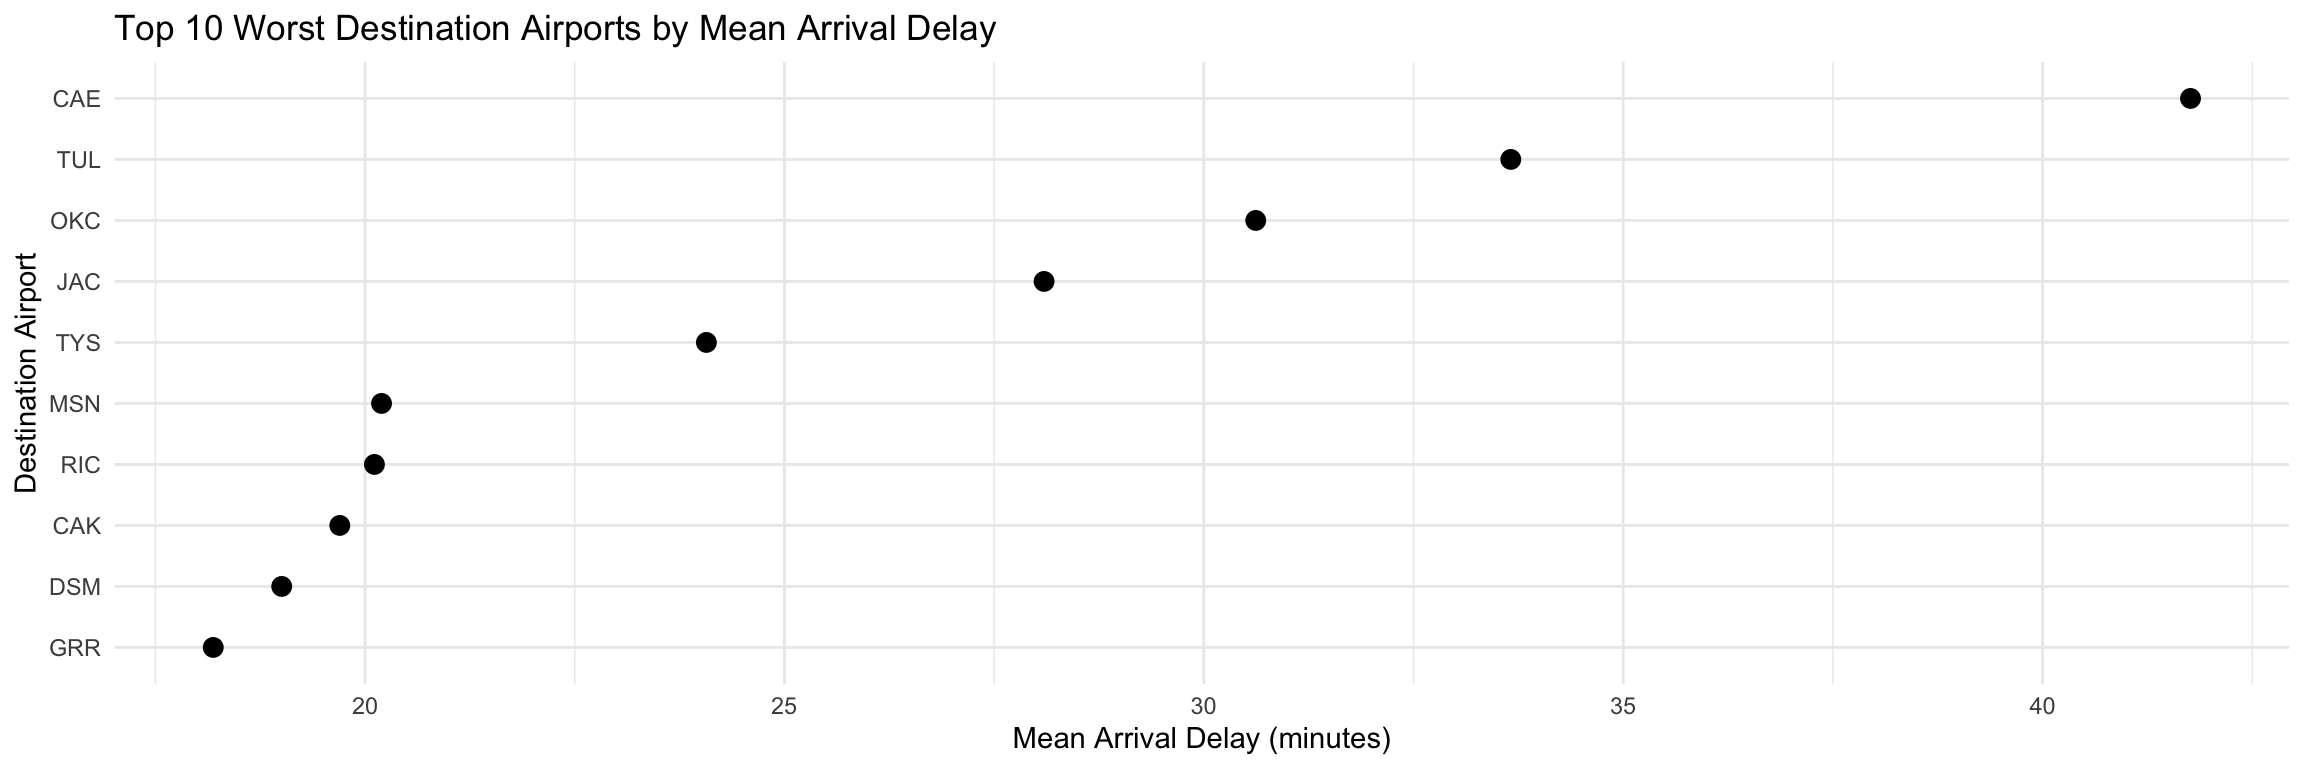
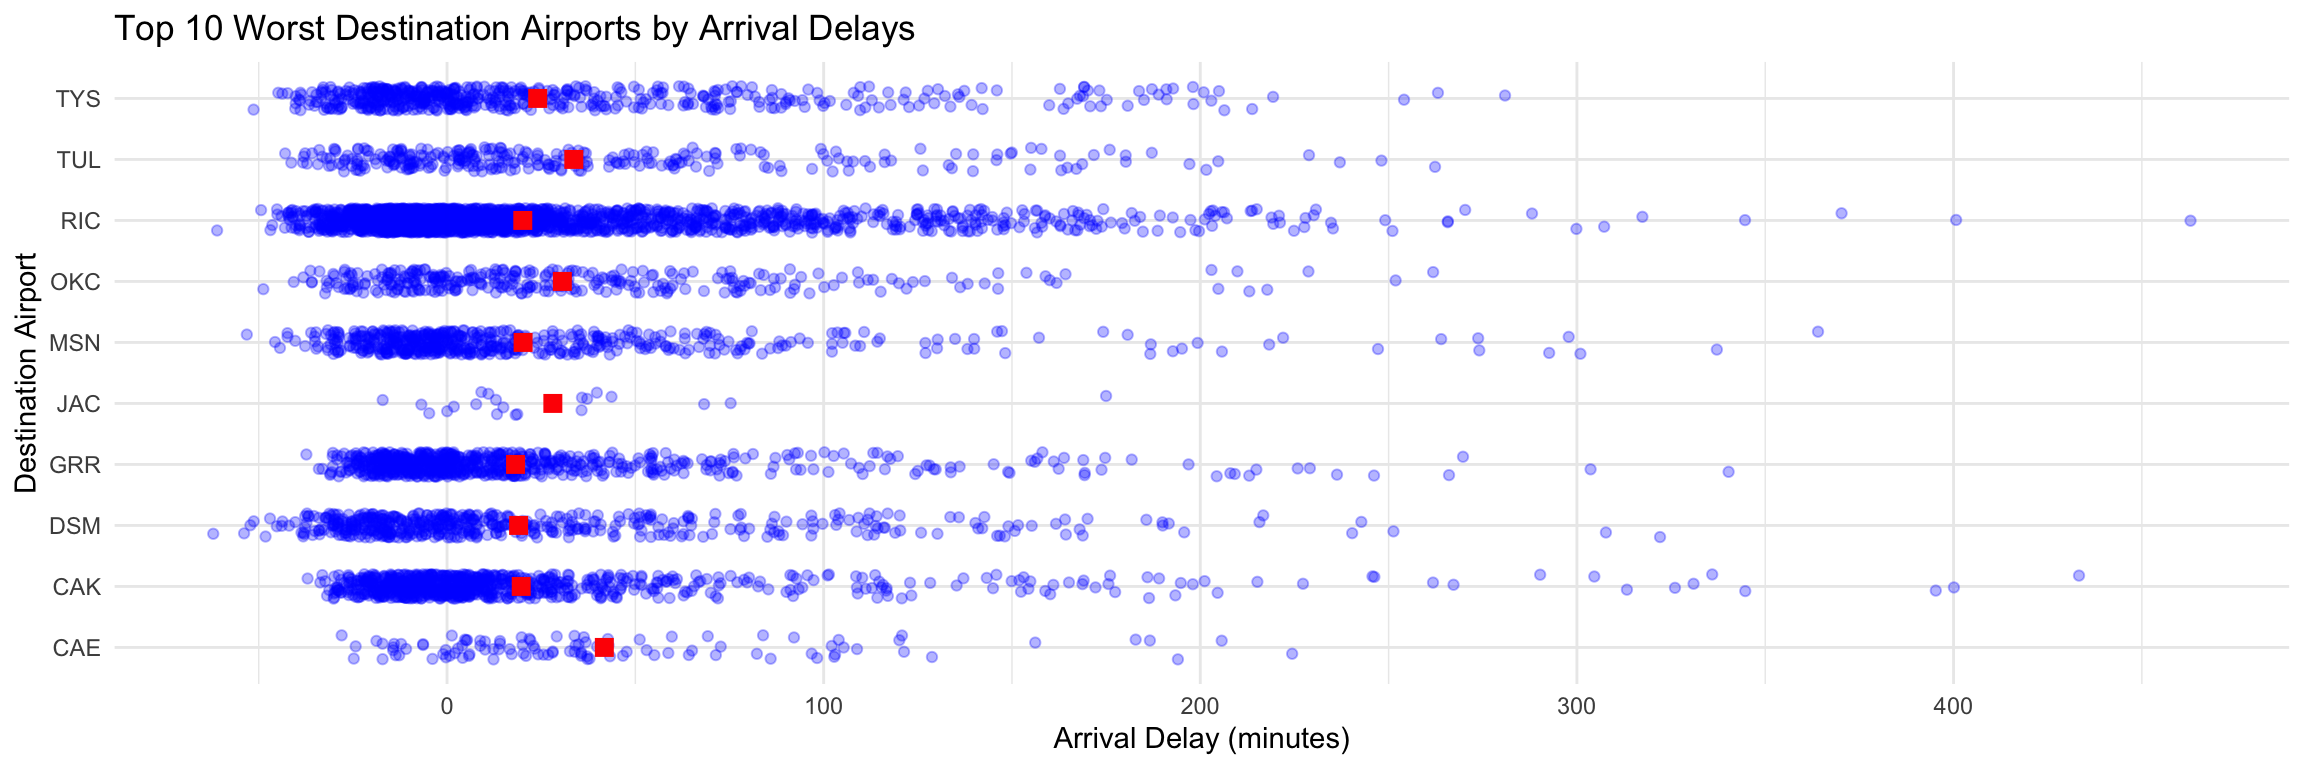
Add files

diff --git a/week_03/W03_Case_Study.html b/week_03/W03_Case_Study.html
@@ -7,7 +7,7 @@
 <meta name="viewport" content="width=device-width, initial-scale=1.0, user-scalable=yes">
 
 <meta name="author" content="Scott Townsend">
-<meta name="dcterms.date" content="2024-10-02">
+<meta name="dcterms.date" content="2024-10-03">
 
 <title>W03 Case Study</title>
 <style>
@@ -98,7 +98,7 @@ pre > code.sourceCode > span > a:first-child::before { text-decoration: underlin
     <div>
     <div class="quarto-title-meta-heading">Published</div>
     <div class="quarto-title-meta-contents">
-      <p class="date">October 2, 2024</p>
+      <p class="date">October 3, 2024</p>
     </div>
   </div>
   
@@ -199,19 +199,22 @@ pre > code.sourceCode > span > a:first-child::before { text-decoration: underlin
 <span id="cb4-7"><a href="#cb4-7"></a>  ) <span class="sc">%&gt;%</span></span>
 <span id="cb4-8"><a href="#cb4-8"></a>  <span class="fu">arrange</span>(<span class="fu">desc</span>(mean_arr_delay))</span>
 <span id="cb4-9"><a href="#cb4-9"></a></span>
-<span id="cb4-10"><a href="#cb4-10"></a></span>
-<span id="cb4-11"><a href="#cb4-11"></a>top_worst_destinations <span class="ot">&lt;-</span> worst_destinations <span class="sc">%&gt;%</span></span>
-<span id="cb4-12"><a href="#cb4-12"></a>  <span class="fu">top_n</span>(<span class="dv">10</span>, mean_arr_delay)</span>
-<span id="cb4-13"><a href="#cb4-13"></a></span>
-<span id="cb4-14"><a href="#cb4-14"></a><span class="fu">ggplot</span>(top_worst_destinations, <span class="fu">aes</span>(<span class="at">x =</span> <span class="fu">reorder</span>(dest, mean_arr_delay), <span class="at">y =</span> mean_arr_delay)) <span class="sc">+</span></span>
-<span id="cb4-15"><a href="#cb4-15"></a>  <span class="fu">geom_point</span>(<span class="at">color =</span> <span class="st">"black"</span>, <span class="at">size =</span> <span class="dv">3</span>) <span class="sc">+</span></span>
-<span id="cb4-16"><a href="#cb4-16"></a>  <span class="fu">labs</span>(</span>
-<span id="cb4-17"><a href="#cb4-17"></a>    <span class="at">title =</span> <span class="st">"Top 10 Worst Destination Airports by Mean Arrival Delay"</span>,</span>
-<span id="cb4-18"><a href="#cb4-18"></a>    <span class="at">x =</span> <span class="st">"Destination Airport"</span>,</span>
-<span id="cb4-19"><a href="#cb4-19"></a>    <span class="at">y =</span> <span class="st">"Mean Arrival Delay (minutes)"</span></span>
-<span id="cb4-20"><a href="#cb4-20"></a>  ) <span class="sc">+</span></span>
-<span id="cb4-21"><a href="#cb4-21"></a>  <span class="fu">coord_flip</span>() <span class="sc">+</span></span>
-<span id="cb4-22"><a href="#cb4-22"></a>  <span class="fu">theme_minimal</span>()</span></code><button title="Copy to Clipboard" class="code-copy-button"><i class="bi"></i></button></pre></div>
+<span id="cb4-10"><a href="#cb4-10"></a>top_worst_destinations <span class="ot">&lt;-</span> worst_destinations <span class="sc">%&gt;%</span></span>
+<span id="cb4-11"><a href="#cb4-11"></a>  <span class="fu">top_n</span>(<span class="dv">10</span>, mean_arr_delay)</span>
+<span id="cb4-12"><a href="#cb4-12"></a></span>
+<span id="cb4-13"><a href="#cb4-13"></a>flights_top_destinations <span class="ot">&lt;-</span> flights <span class="sc">%&gt;%</span></span>
+<span id="cb4-14"><a href="#cb4-14"></a>  <span class="fu">filter</span>(dest <span class="sc">%in%</span> top_worst_destinations<span class="sc">$</span>dest)</span>
+<span id="cb4-15"><a href="#cb4-15"></a></span>
+<span id="cb4-16"><a href="#cb4-16"></a><span class="fu">ggplot</span>(flights_top_destinations, <span class="fu">aes</span>(<span class="at">x =</span> <span class="fu">reorder</span>(dest, arr_delay), <span class="at">y =</span> arr_delay)) <span class="sc">+</span></span>
+<span id="cb4-17"><a href="#cb4-17"></a>  <span class="fu">geom_jitter</span>(<span class="at">width =</span> <span class="fl">0.2</span>, <span class="at">alpha =</span> <span class="fl">0.3</span>, <span class="at">color =</span> <span class="st">"blue"</span>) <span class="sc">+</span> </span>
+<span id="cb4-18"><a href="#cb4-18"></a>  <span class="fu">stat_summary</span>(<span class="at">fun =</span> mean, <span class="at">geom =</span> <span class="st">"point"</span>, <span class="at">color =</span> <span class="st">"red"</span>, <span class="at">size =</span> <span class="dv">3</span>, <span class="at">shape =</span> <span class="dv">15</span>) <span class="sc">+</span> </span>
+<span id="cb4-19"><a href="#cb4-19"></a>  <span class="fu">labs</span>(</span>
+<span id="cb4-20"><a href="#cb4-20"></a>    <span class="at">title =</span> <span class="st">"Top 10 Worst Destination Airports by Arrival Delays"</span>,</span>
+<span id="cb4-21"><a href="#cb4-21"></a>    <span class="at">x =</span> <span class="st">"Destination Airport"</span>,</span>
+<span id="cb4-22"><a href="#cb4-22"></a>    <span class="at">y =</span> <span class="st">"Arrival Delay (minutes)"</span></span>
+<span id="cb4-23"><a href="#cb4-23"></a>  ) <span class="sc">+</span></span>
+<span id="cb4-24"><a href="#cb4-24"></a>  <span class="fu">coord_flip</span>() <span class="sc">+</span></span>
+<span id="cb4-25"><a href="#cb4-25"></a>  <span class="fu">theme_minimal</span>()</span></code><button title="Copy to Clipboard" class="code-copy-button"><i class="bi"></i></button></pre></div>
 </details>
 <div class="cell-output-display">
 <div>
@@ -221,7 +224,7 @@ pre > code.sourceCode > span > a:first-child::before { text-decoration: underlin
 </div>
 </div>
 </div>
-<p>Reviewing the scatter plot above, we are able to see that the destination airport with the worst arrival delays is CAE airport being over a 40 minute delay. TUL is behind CAE at close to a 35 minute delay.</p>
+<p>Reviewing the plot above displaying individual flights across different airports, we are able to see that the destination airport with the worst arrival delays is RIC airport with one flight recording a delay close to a 450 minute delay. CAK is behind RIC with one flight being over a 400 minute delay.</p>
 </section>
 </section>
 

diff --git a/week_03/W03_Case_Study.html.md b/week_03/W03_Case_Study.html.md
@@ -1,7 +1,7 @@
 ---
 title: "W03 Case Study"
 author: "Scott Townsend"
-date: "October 02, 2024"
+date: "October 03, 2024"
 
 execute:
   keep-md: true
@@ -107,16 +107,19 @@ worst_destinations <- flights %>%
   ) %>%
   arrange(desc(mean_arr_delay))
 
-
 top_worst_destinations <- worst_destinations %>%
   top_n(10, mean_arr_delay)
 
-ggplot(top_worst_destinations, aes(x = reorder(dest, mean_arr_delay), y = mean_arr_delay)) +
-  geom_point(color = "black", size = 3) +
+flights_top_destinations <- flights %>%
+  filter(dest %in% top_worst_destinations$dest)
+
+ggplot(flights_top_destinations, aes(x = reorder(dest, arr_delay), y = arr_delay)) +
+  geom_jitter(width = 0.2, alpha = 0.3, color = "blue") + 
+  stat_summary(fun = mean, geom = "point", color = "red", size = 3, shape = 15) + 
   labs(
-    title = "Top 10 Worst Destination Airports by Mean Arrival Delay",
+    title = "Top 10 Worst Destination Airports by Arrival Delays",
     x = "Destination Airport",
-    y = "Mean Arrival Delay (minutes)"
+    y = "Arrival Delay (minutes)"
   ) +
   coord_flip() +
   theme_minimal()
@@ -128,4 +131,4 @@ ggplot(top_worst_destinations, aes(x = reorder(dest, mean_arr_delay), y = mean_a
 :::
 
 
-Reviewing the scatter plot above, we are able to see that the destination airport with the worst arrival delays is CAE airport being over a 40 minute delay. TUL is behind CAE at close to a 35 minute delay. 
+Reviewing the plot above displaying individual flights across different airports, we are able to see that the destination airport with the worst arrival delays is RIC airport with one flight recording a delay close to a 450 minute delay. CAK is behind RIC with one flight being over a 400 minute delay. 
